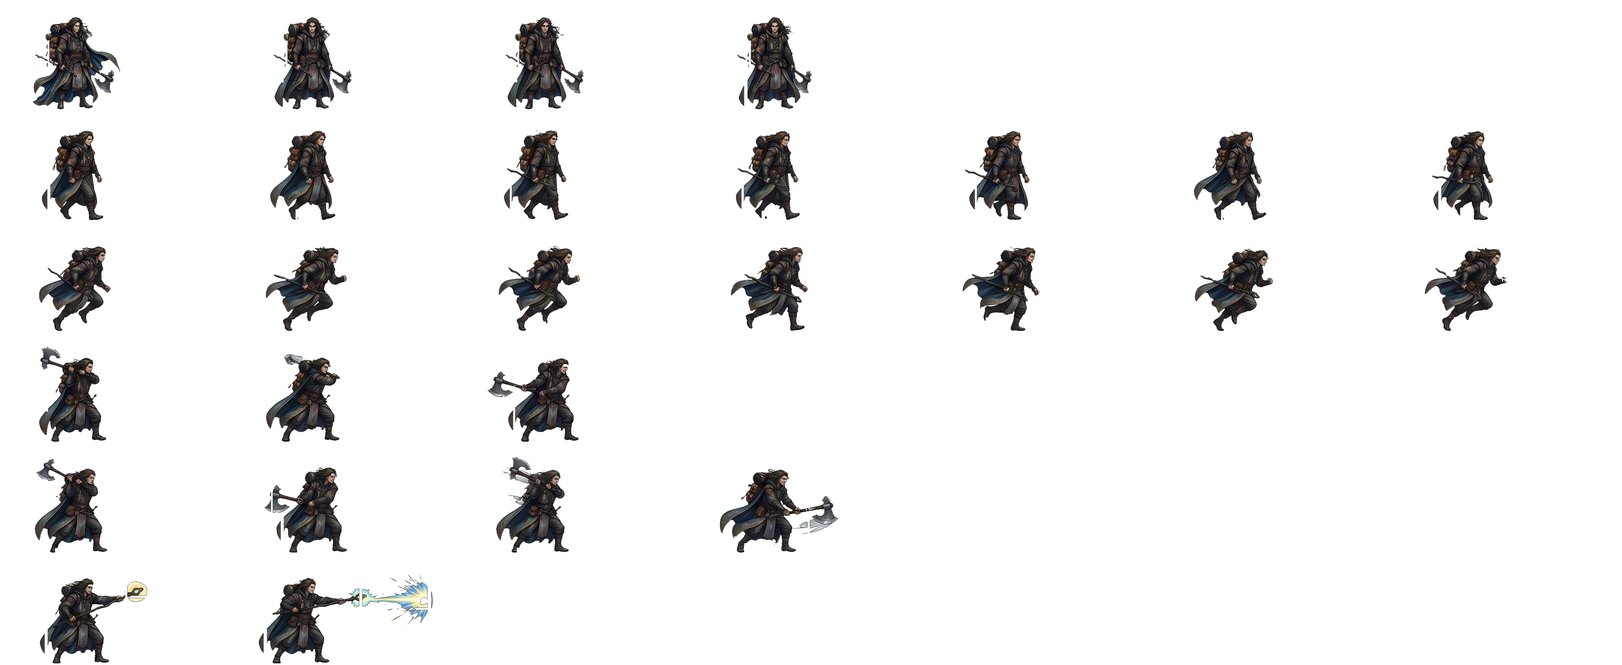
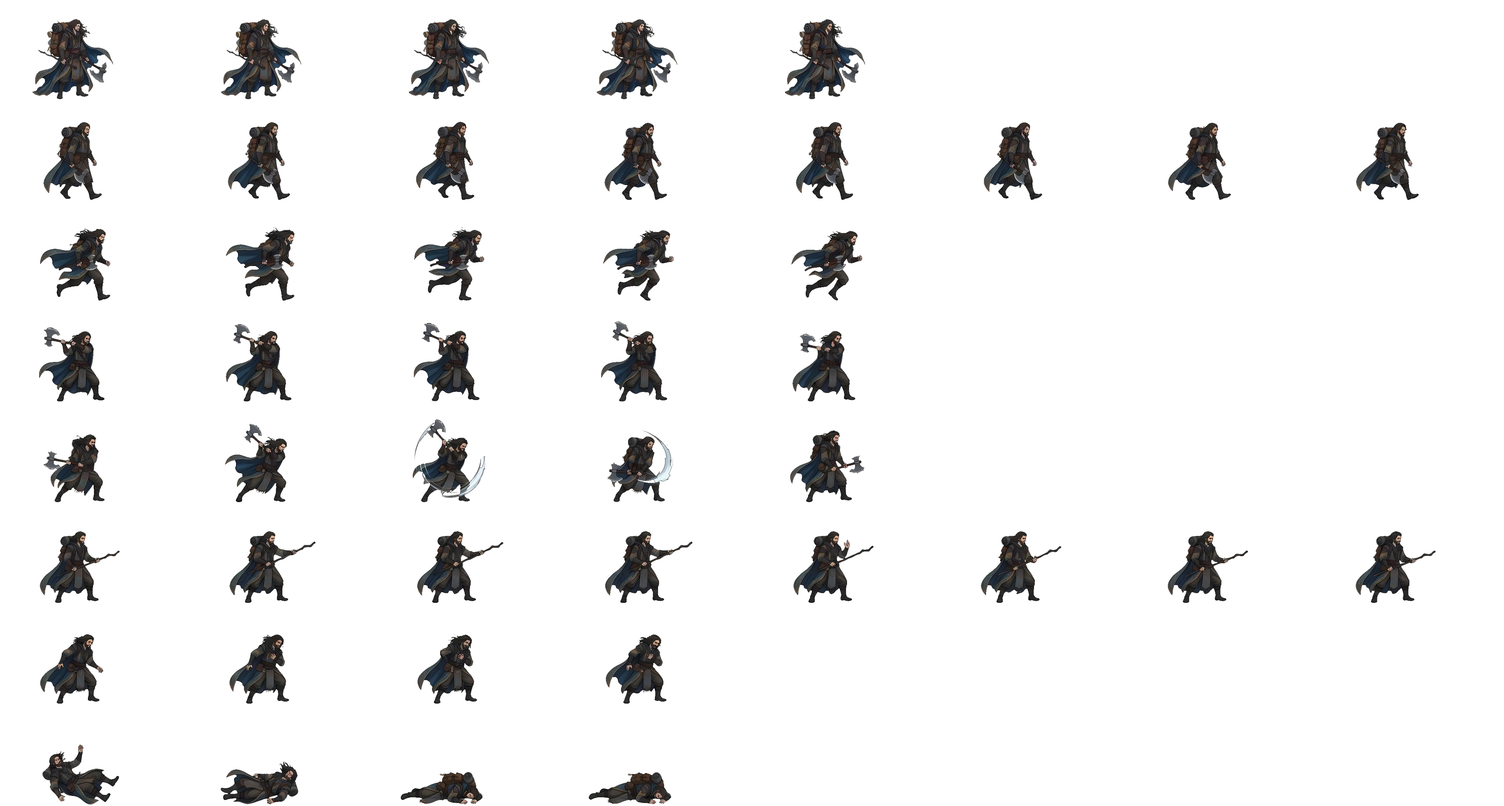
Jak: new sprite sheet (idle, 8-frame walk, run, wind-up, swing, staff cast, hurt, knocked out)
Claude-Session: https://claude.ai/code/session_016iBLHZqgtWrdG3jWmShjEG

diff --git a/index.html b/index.html
@@ -49,7 +49,7 @@ body{display:flex;justify-content:center}
 
 <script>
 const ATLAS_SRC="assets/lum_atlas_v5.webp?v=b5d321dc8e";
-const ASSET_SRC={"ground": "assets/ground.webp?v=c61ee31f5b", "rock1": "assets/rock1.webp?v=4e677f3831", "rock2": "assets/rock2.webp?v=7dd0569dcb", "rock3": "assets/rock3.webp?v=56b967ad67", "rock4": "assets/rock4.webp?v=0d1af80431", "cottage": "assets/cottage.webp?v=698443d54d", "cottage_win": "assets/cottage_win.webp?v=7aa924e07f", "cottage_runes": "assets/cottage_runes.webp?v=fedf57d4f3", "well2": "assets/well2.webp?v=af52a369ca", "signpost": "assets/signpost.webp?v=58d6cbc3c9", "runetree": "assets/runetree.webp?v=882fef9528", "runetree_runes": "assets/runetree_runes.webp?v=32432a9566", "forest_bg": "assets/forest_bg.webp?v=48e7441431", "wellroom": "assets/wellroom.webp?v=4c525760c2", "wellroom_runes": "assets/wellroom_runes.webp?v=f42530f4f2", "wellroom_nobucket": "assets/wellroom_nobucket.webp?v=f47f13a7c8", "bucket_hat": "assets/bucket_hat.webp?v=a26814e8f8", "bucket_worn": "assets/bucket_worn.webp?v=a493a15958", "jelly_idle": "assets/jelly_idle.webp?v=71fed74136", "jelly_lunge": "assets/jelly_lunge.webp?v=92b0dc4343", "studyroom": "assets/studyroom.webp?v=a45726d36c", "grave0": "assets/grave0.webp?v=ad382cac7a", "grave1": "assets/grave1.webp?v=cefcf7ebac", "grave2": "assets/grave2.webp?v=9878aa3e55", "grave3": "assets/grave3.webp?v=a7a223d89e", "grave4": "assets/grave4.webp?v=a1028b8b90", "grave5": "assets/grave5.webp?v=0e02f5ad47", "grave6": "assets/grave6.webp?v=d0d80e2012", "grave7": "assets/grave7.webp?v=63f26d00aa", "grave8": "assets/grave8.webp?v=23e439ffe1", "grave9": "assets/grave9.webp?v=e07c5d7e34", "grave10": "assets/grave10.webp?v=fc3c50105c", "grave11": "assets/grave11.webp?v=8c2b60ce50", "bedroom": "assets/bedroom.webp?v=2225ec5dde", "sleep_cos": "assets/sleep_cos.webp?v=1b3af569b0", "sleep_lum": "assets/sleep_lum.webp?v=cd742dd436", "shoproom": "assets/shoproom.webp?v=79fc4857bd", "pondroom": "assets/pondroom.webp?v=50b5134a4a", "pcol_l": "assets/pcol_l.webp?v=e9bb5ccd70", "pcol_r": "assets/pcol_r.webp?v=dbb98c3bbf", "shed": "assets/shed.webp?v=543a9519de", "shedroom": "assets/shedroom.webp?v=f4136aef1d", "mimic": "assets/mimic.webp?v=b4eccb2cc0", "skel": "assets/skel.webp?v=6bdb7d42b9", "fokalur": "assets/fokalur.webp?v=32e8fdde12", "gate": "assets/gate.webp?v=b13c3b515c", "hut": "assets/hut.webp?v=93968f3788", "icon_potion": "assets/icon_potion.webp?v=ead5b0d648", "icon_pouch_seal": "assets/icon_pouch_seal.webp?v=f5895d2c6b", "icon_pouch": "assets/icon_pouch.webp?v=1228805e30", "icon_pouch_rose": "assets/icon_pouch_rose.webp?v=9ce159b238", "icon_pouch_crystal": "assets/icon_pouch_crystal.webp?v=0f51c72ecd", "icon_stick": "assets/icon_stick.webp?v=7da6e80825", "icon_rod": "assets/icon_rod.webp?v=500c8ad5de", "icon_staff_crystal": "assets/icon_staff_crystal.webp?v=2fadb8e7cf", "icon_staff_unicorn": "assets/icon_staff_unicorn.webp?v=19aca18031", "icon_sword_wood": "assets/icon_sword_wood.webp?v=51208a1356", "icon_sword_iron": "assets/icon_sword_iron.webp?v=5d4e663c8b", "icon_blade_dark": "assets/icon_blade_dark.webp?v=f39a2c7691", "icon_sword_long": "assets/icon_sword_long.webp?v=e2ed18cc86", "icon_sword_rune": "assets/icon_sword_rune.webp?v=0950c74e57", "icon_boots_leather": "assets/icon_boots_leather.webp?v=735092ee0b", "icon_boots_rubber_green": "assets/icon_boots_rubber_green.webp?v=698906df6b", "icon_boots_chain": "assets/icon_boots_chain.webp?v=024ff688e1", "icon_boots_plate": "assets/icon_boots_plate.webp?v=74076691fc", "icon_boots_winged": "assets/icon_boots_winged.webp?v=8c4553d310", "icon_cloak_apprentice": "assets/icon_cloak_apprentice.webp?v=1d1a6ddb1f", "icon_cloak_undine": "assets/icon_cloak_undine.webp?v=940789d635", "icon_cloak_green": "assets/icon_cloak_green.webp?v=76adbc8f83", "icon_cloak_grey": "assets/icon_cloak_grey.webp?v=d59e43efdb", "icon_cape_stars": "assets/icon_cape_stars.webp?v=d6e7732a4b", "icon_cape_lion_red": "assets/icon_cape_lion_red.webp?v=71308a4082", "icon_cape_lion_white": "assets/icon_cape_lion_white.webp?v=898859a526", "icon_cape_wings": "assets/icon_cape_wings.webp?v=2f7ea8ce7c", "slugking": "assets/slugking.webp?v=2f01c887f5", "jelly_idle_moss": "assets/jelly_idle_moss.webp?v=86cd24ecd3", "jelly_lunge_moss": "assets/jelly_lunge_moss.webp?v=bb5e70117f", "rskel": "assets/rskel.webp?v=c21afe8d1f", "wisp": "assets/wisp.webp?v=5b64d7379a", "vane": "assets/vane.webp?v=ddc4dc4c1e", "reaper": "assets/reaper.webp?v=2d19da05f6", "vanehut": "assets/vanehut.webp?v=27acb20d56", "ing_duskberry": "assets/ing_duskberry.webp?v=227fa12fae", "ing_dewberry": "assets/ing_dewberry.webp?v=7acbb8f24a", "ing_emberberry": "assets/ing_emberberry.webp?v=182192d25f", "ing_leavesB5": "assets/ing_leavesB5.webp?v=670e67f484", "ing_slime": "assets/ing_slime.webp?v=2d52e374b9", "ing_bones": "assets/ing_bones.webp?v=d2f5252a5b", "ing_twig": "assets/ing_twig.webp?v=ce341bff86", "tool_lantern": "assets/tool_lantern.webp?v=b0badf9ba0", "tool_lantern_ornate": "assets/tool_lantern_ornate.webp?v=6d22a8b9d8", "tool_rune_compass": "assets/tool_rune_compass.webp?v=3d79732549", "emote_grab": "assets/emote_grab.webp?v=0210ee5f87", "icon4_boots_fur": "assets/icon4_boots_fur.webp?v=257380106a", "spider": "assets/spider.webp?v=2082b59414", "bat": "assets/bat.webp?v=8384f2ed44", "fox": "assets/fox.webp?v=d1d5a33797", "flora": "assets/flora.webp?v=b2984d2fc2", "bramble_arch": "assets/bramble_arch.webp?v=f4f04cdb52", "bramble_hedge": "assets/bramble_hedge.webp?v=d4eccc44e3", "oak_big": "assets/oak_big.webp?v=a31af37e20", "webtree": "assets/webtree.webp?v=9c025b735f", "bwood_big": "assets/bwood_big.webp?v=cfb9ccc351", "bwood_small_a": "assets/bwood_small_a.webp?v=33d4334dc6", "bwood_small_b": "assets/bwood_small_b.webp?v=85c53e90a1", "bwood2_big": "assets/bwood2_big.webp?v=fdec0206c8", "bwood2_small_a": "assets/bwood2_small_a.webp?v=423d3b4f74", "bwood2_small_b": "assets/bwood2_small_b.webp?v=fc8a2edaac", "floor_st": "assets/floor_st.webp?v=c9eb0963f5", "jak": "assets/jak.webp?v=daf5f1152d", "icon_axe_wood": "assets/icon_axe_wood.webp?v=c531e310b1", "icon_axe_double_iron": "assets/icon_axe_double_iron.webp?v=1b08693001", "icon_axe_pearl": "assets/icon_axe_pearl.webp?v=1dfe41cb0b", "icon_axe_rune_gold": "assets/icon_axe_rune_gold.webp?v=aac528fea8", "icon_axe_jeweled": "assets/icon_axe_jeweled.webp?v=ea9c4a26e0", "icon_axe_broken": "assets/icon_axe_broken.webp?v=e1893bb616", "icon_axe_rusty": "assets/icon_axe_rusty.webp?v=1378b7b200", "icon_axe_leaf": "assets/icon_axe_leaf.webp?v=a4488d45e3", "icon_axe_bearded": "assets/icon_axe_bearded.webp?v=9af8e4a3ca", "icon_axe_steel": "assets/icon_axe_steel.webp?v=471dd46f27", "icon_axe_frost": "assets/icon_axe_frost.webp?v=302d3e06ea", "fox_red": "assets/fox_red.webp?v=9e66ea9c96", "jelly_idle_red": "assets/jelly_idle_red.webp?v=43ea16fbfd", "jelly_lunge_red": "assets/jelly_lunge_red.webp?v=d978f8f86e", "spider_dark": "assets/spider_dark.webp?v=dd9cccd6da", "thorngate": "assets/thorngate.webp?v=42c0f07e5d", "rose_bud": "assets/rose_bud.webp?v=bcef1e8f75", "rose_open": "assets/rose_open.webp?v=a0242c359d", "rose_twin": "assets/rose_twin.webp?v=e2297a7a91", "thdec_stickweb": "assets/thdec_stickweb.webp?v=a0b5d29ef3", "thdec_mushweb": "assets/thdec_mushweb.webp?v=ef66bb87d1", "thdec_litterweb": "assets/thdec_litterweb.webp?v=55159b7bc4", "thdec_fernweb": "assets/thdec_fernweb.webp?v=835280ac84", "thdec_smallweb": "assets/thdec_smallweb.webp?v=ca6202bcd2", "thdec_log": "assets/thdec_log.webp?v=366093c3a6", "icon3_mortar_clay": "assets/icon3_mortar_clay.webp?v=79428386fe", "icon4_sun_bottle": "assets/icon4_sun_bottle.webp?v=814504de18", "icon3_frost_bowl": "assets/icon3_frost_bowl.webp?v=0e086c9798", "icon3_pastel_powders": "assets/icon3_pastel_powders.webp?v=f431b705e2", "icon2_cross_wood": "assets/icon2_cross_wood.webp?v=161f6ec751", "icon2_key_gold": "assets/icon2_key_gold.webp?v=8ff3771dd5", "hollow": "assets/hollow.webp?v=dfa726d993", "dun5": "assets/dun5.webp?v=85029c1dff", "dun4": "assets/dun4.webp?v=b46827d446", "dun3": "assets/dun3.webp?v=7a88b0e860", "dun2": "assets/dun2.webp?v=21d09cc1d9", "dun1": "assets/dun1.webp?v=06e6dc99cc", "acc_heart_ring": "assets/acc_heart_ring.webp?v=5bc343177a", "acc_braid_ring": "assets/acc_braid_ring.webp?v=ef878f119c", "acc_moon_necklace": "assets/acc_moon_necklace.webp?v=e57426d856", "acc_slime_ring": "assets/acc_slime_ring.webp?v=01154880ae", "acc_amethyst": "assets/acc_amethyst.webp?v=459ad65fc8", "acc_sunmoon_medal": "assets/acc_sunmoon_medal.webp?v=0ebb4c8567", "acc_lion_ring": "assets/acc_lion_ring.webp?v=d803438586", "acc_shell_necklace": "assets/acc_shell_necklace.webp?v=eb822dcaef", "acc_wing_brooch": "assets/acc_wing_brooch.webp?v=9e7d87c59b", "acc_moonstone_ring": "assets/acc_moonstone_ring.webp?v=ffda303e15", "sfg_chest": "assets/sfg_chest.webp?v=a472570ab1", "sfg_table": "assets/sfg_table.webp?v=013527fc10", "sfg_tableleg": "assets/sfg_tableleg.webp?v=1ad782e189", "sfg_side": "assets/sfg_side.webp?v=a4a3f2284f", "sfg_lectern": "assets/sfg_lectern.webp?v=c0df8fec54", "sfg_roots": "assets/sfg_roots.webp?v=c59040b279", "birch1": "assets/birch1.webp?v=b0ea24106f", "birch2": "assets/birch2.webp?v=2dd033eac7", "birch3": "assets/birch3.webp?v=e64553ecbd", "willow1": "assets/willow1.webp?v=98786f0c84", "cobble_strip": "assets/cobble_strip.webp?v=284855081b", "cobble_runes": "assets/cobble_runes.webp?v=07a4cad76e", "bridge0": "assets/bridge0.webp?v=c930b521f8", "bridge1": "assets/bridge1.webp?v=8e675faec7", "bridge2": "assets/bridge2.webp?v=65bc61c470", "bridge3": "assets/bridge3.webp?v=153e2f5c59", "bridge4": "assets/bridge4.webp?v=b6ff9fef90", "drained0": "assets/drained0.webp?v=dee278254d", "drained1": "assets/drained1.webp?v=c38f30e4a2", "drained2": "assets/drained2.webp?v=c2abd46393", "drained3": "assets/drained3.webp?v=d0408dce90", "drained4": "assets/drained4.webp?v=49fe89ce29", "drained5": "assets/drained5.webp?v=8b2a410ea1", "drained6": "assets/drained6.webp?v=b735f267b4", "drained7": "assets/drained7.webp?v=aefa2993f7", "drained8": "assets/drained8.webp?v=e853833327", "drained9": "assets/drained9.webp?v=9a5541fe81", "shrub0": "assets/shrub0.webp?v=f9f7df7aac", "shrub1": "assets/shrub1.webp?v=f4825b0d48", "shrub2": "assets/shrub2.webp?v=b0edbbd898", "shrub3": "assets/shrub3.webp?v=bc7a089a89", "shrub4": "assets/shrub4.webp?v=bb66d76d2e", "shrub5": "assets/shrub5.webp?v=ffbae35557", "shrub6": "assets/shrub6.webp?v=1c234a4c17", "shrub7": "assets/shrub7.webp?v=5b1a8119f9", "shrub8": "assets/shrub8.webp?v=a937edbbf3", "shrub9": "assets/shrub9.webp?v=dfb2f54698", "shrub10": "assets/shrub10.webp?v=5c2dd38d41", "shrub11": "assets/shrub11.webp?v=3faa1b4736", "bird0": "assets/bird0.webp?v=7d5d2404e5", "bird1": "assets/bird1.webp?v=eb12c73b19", "bird2": "assets/bird2.webp?v=ca02415237", "bird3": "assets/bird3.webp?v=42efa7eb02", "bird4": "assets/bird4.webp?v=7a9329e236", "bird5": "assets/bird5.webp?v=90bd3aa6a3", "bird6": "assets/bird6.webp?v=0a764f8ed6", "bird7": "assets/bird7.webp?v=04e3aa6d61", "bird8": "assets/bird8.webp?v=11cac9e48b", "bird9": "assets/bird9.webp?v=209732f271", "bird10": "assets/bird10.webp?v=518afeccc0", "bird11": "assets/bird11.webp?v=41c18c5083", "bird12": "assets/bird12.webp?v=9250bb7453", "topi_cube": "assets/topi_cube.webp?v=1fc6082fd5", "topi_ball": "assets/topi_ball.webp?v=78a3cfcc82", "topi_spiral": "assets/topi_spiral.webp?v=d6ac5cd38a", "topi_cone": "assets/topi_cone.webp?v=67e11f2900"};
+const ASSET_SRC={"ground": "assets/ground.webp?v=c61ee31f5b", "rock1": "assets/rock1.webp?v=4e677f3831", "rock2": "assets/rock2.webp?v=7dd0569dcb", "rock3": "assets/rock3.webp?v=56b967ad67", "rock4": "assets/rock4.webp?v=0d1af80431", "cottage": "assets/cottage.webp?v=698443d54d", "cottage_win": "assets/cottage_win.webp?v=7aa924e07f", "cottage_runes": "assets/cottage_runes.webp?v=fedf57d4f3", "well2": "assets/well2.webp?v=af52a369ca", "signpost": "assets/signpost.webp?v=58d6cbc3c9", "runetree": "assets/runetree.webp?v=882fef9528", "runetree_runes": "assets/runetree_runes.webp?v=32432a9566", "forest_bg": "assets/forest_bg.webp?v=48e7441431", "wellroom": "assets/wellroom.webp?v=4c525760c2", "wellroom_runes": "assets/wellroom_runes.webp?v=f42530f4f2", "wellroom_nobucket": "assets/wellroom_nobucket.webp?v=f47f13a7c8", "bucket_hat": "assets/bucket_hat.webp?v=a26814e8f8", "bucket_worn": "assets/bucket_worn.webp?v=a493a15958", "jelly_idle": "assets/jelly_idle.webp?v=71fed74136", "jelly_lunge": "assets/jelly_lunge.webp?v=92b0dc4343", "studyroom": "assets/studyroom.webp?v=a45726d36c", "grave0": "assets/grave0.webp?v=ad382cac7a", "grave1": "assets/grave1.webp?v=cefcf7ebac", "grave2": "assets/grave2.webp?v=9878aa3e55", "grave3": "assets/grave3.webp?v=a7a223d89e", "grave4": "assets/grave4.webp?v=a1028b8b90", "grave5": "assets/grave5.webp?v=0e02f5ad47", "grave6": "assets/grave6.webp?v=d0d80e2012", "grave7": "assets/grave7.webp?v=63f26d00aa", "grave8": "assets/grave8.webp?v=23e439ffe1", "grave9": "assets/grave9.webp?v=e07c5d7e34", "grave10": "assets/grave10.webp?v=fc3c50105c", "grave11": "assets/grave11.webp?v=8c2b60ce50", "bedroom": "assets/bedroom.webp?v=2225ec5dde", "sleep_cos": "assets/sleep_cos.webp?v=1b3af569b0", "sleep_lum": "assets/sleep_lum.webp?v=cd742dd436", "shoproom": "assets/shoproom.webp?v=79fc4857bd", "pondroom": "assets/pondroom.webp?v=50b5134a4a", "pcol_l": "assets/pcol_l.webp?v=e9bb5ccd70", "pcol_r": "assets/pcol_r.webp?v=dbb98c3bbf", "shed": "assets/shed.webp?v=543a9519de", "shedroom": "assets/shedroom.webp?v=f4136aef1d", "mimic": "assets/mimic.webp?v=b4eccb2cc0", "skel": "assets/skel.webp?v=6bdb7d42b9", "fokalur": "assets/fokalur.webp?v=32e8fdde12", "gate": "assets/gate.webp?v=b13c3b515c", "hut": "assets/hut.webp?v=93968f3788", "icon_potion": "assets/icon_potion.webp?v=ead5b0d648", "icon_pouch_seal": "assets/icon_pouch_seal.webp?v=f5895d2c6b", "icon_pouch": "assets/icon_pouch.webp?v=1228805e30", "icon_pouch_rose": "assets/icon_pouch_rose.webp?v=9ce159b238", "icon_pouch_crystal": "assets/icon_pouch_crystal.webp?v=0f51c72ecd", "icon_stick": "assets/icon_stick.webp?v=7da6e80825", "icon_rod": "assets/icon_rod.webp?v=500c8ad5de", "icon_staff_crystal": "assets/icon_staff_crystal.webp?v=2fadb8e7cf", "icon_staff_unicorn": "assets/icon_staff_unicorn.webp?v=19aca18031", "icon_sword_wood": "assets/icon_sword_wood.webp?v=51208a1356", "icon_sword_iron": "assets/icon_sword_iron.webp?v=5d4e663c8b", "icon_blade_dark": "assets/icon_blade_dark.webp?v=f39a2c7691", "icon_sword_long": "assets/icon_sword_long.webp?v=e2ed18cc86", "icon_sword_rune": "assets/icon_sword_rune.webp?v=0950c74e57", "icon_boots_leather": "assets/icon_boots_leather.webp?v=735092ee0b", "icon_boots_rubber_green": "assets/icon_boots_rubber_green.webp?v=698906df6b", "icon_boots_chain": "assets/icon_boots_chain.webp?v=024ff688e1", "icon_boots_plate": "assets/icon_boots_plate.webp?v=74076691fc", "icon_boots_winged": "assets/icon_boots_winged.webp?v=8c4553d310", "icon_cloak_apprentice": "assets/icon_cloak_apprentice.webp?v=1d1a6ddb1f", "icon_cloak_undine": "assets/icon_cloak_undine.webp?v=940789d635", "icon_cloak_green": "assets/icon_cloak_green.webp?v=76adbc8f83", "icon_cloak_grey": "assets/icon_cloak_grey.webp?v=d59e43efdb", "icon_cape_stars": "assets/icon_cape_stars.webp?v=d6e7732a4b", "icon_cape_lion_red": "assets/icon_cape_lion_red.webp?v=71308a4082", "icon_cape_lion_white": "assets/icon_cape_lion_white.webp?v=898859a526", "icon_cape_wings": "assets/icon_cape_wings.webp?v=2f7ea8ce7c", "slugking": "assets/slugking.webp?v=2f01c887f5", "jelly_idle_moss": "assets/jelly_idle_moss.webp?v=86cd24ecd3", "jelly_lunge_moss": "assets/jelly_lunge_moss.webp?v=bb5e70117f", "rskel": "assets/rskel.webp?v=c21afe8d1f", "wisp": "assets/wisp.webp?v=5b64d7379a", "vane": "assets/vane.webp?v=ddc4dc4c1e", "reaper": "assets/reaper.webp?v=2d19da05f6", "vanehut": "assets/vanehut.webp?v=27acb20d56", "ing_duskberry": "assets/ing_duskberry.webp?v=227fa12fae", "ing_dewberry": "assets/ing_dewberry.webp?v=7acbb8f24a", "ing_emberberry": "assets/ing_emberberry.webp?v=182192d25f", "ing_leavesB5": "assets/ing_leavesB5.webp?v=670e67f484", "ing_slime": "assets/ing_slime.webp?v=2d52e374b9", "ing_bones": "assets/ing_bones.webp?v=d2f5252a5b", "ing_twig": "assets/ing_twig.webp?v=ce341bff86", "tool_lantern": "assets/tool_lantern.webp?v=b0badf9ba0", "tool_lantern_ornate": "assets/tool_lantern_ornate.webp?v=6d22a8b9d8", "tool_rune_compass": "assets/tool_rune_compass.webp?v=3d79732549", "emote_grab": "assets/emote_grab.webp?v=0210ee5f87", "icon4_boots_fur": "assets/icon4_boots_fur.webp?v=257380106a", "spider": "assets/spider.webp?v=2082b59414", "bat": "assets/bat.webp?v=8384f2ed44", "fox": "assets/fox.webp?v=d1d5a33797", "flora": "assets/flora.webp?v=b2984d2fc2", "bramble_arch": "assets/bramble_arch.webp?v=f4f04cdb52", "bramble_hedge": "assets/bramble_hedge.webp?v=d4eccc44e3", "oak_big": "assets/oak_big.webp?v=a31af37e20", "webtree": "assets/webtree.webp?v=9c025b735f", "bwood_big": "assets/bwood_big.webp?v=cfb9ccc351", "bwood_small_a": "assets/bwood_small_a.webp?v=33d4334dc6", "bwood_small_b": "assets/bwood_small_b.webp?v=85c53e90a1", "bwood2_big": "assets/bwood2_big.webp?v=fdec0206c8", "bwood2_small_a": "assets/bwood2_small_a.webp?v=423d3b4f74", "bwood2_small_b": "assets/bwood2_small_b.webp?v=fc8a2edaac", "floor_st": "assets/floor_st.webp?v=c9eb0963f5", "jak": "assets/jak.webp?v=714b2272bd", "icon_axe_wood": "assets/icon_axe_wood.webp?v=c531e310b1", "icon_axe_double_iron": "assets/icon_axe_double_iron.webp?v=1b08693001", "icon_axe_pearl": "assets/icon_axe_pearl.webp?v=1dfe41cb0b", "icon_axe_rune_gold": "assets/icon_axe_rune_gold.webp?v=aac528fea8", "icon_axe_jeweled": "assets/icon_axe_jeweled.webp?v=ea9c4a26e0", "icon_axe_broken": "assets/icon_axe_broken.webp?v=e1893bb616", "icon_axe_rusty": "assets/icon_axe_rusty.webp?v=1378b7b200", "icon_axe_leaf": "assets/icon_axe_leaf.webp?v=a4488d45e3", "icon_axe_bearded": "assets/icon_axe_bearded.webp?v=9af8e4a3ca", "icon_axe_steel": "assets/icon_axe_steel.webp?v=471dd46f27", "icon_axe_frost": "assets/icon_axe_frost.webp?v=302d3e06ea", "fox_red": "assets/fox_red.webp?v=9e66ea9c96", "jelly_idle_red": "assets/jelly_idle_red.webp?v=43ea16fbfd", "jelly_lunge_red": "assets/jelly_lunge_red.webp?v=d978f8f86e", "spider_dark": "assets/spider_dark.webp?v=dd9cccd6da", "thorngate": "assets/thorngate.webp?v=42c0f07e5d", "rose_bud": "assets/rose_bud.webp?v=bcef1e8f75", "rose_open": "assets/rose_open.webp?v=a0242c359d", "rose_twin": "assets/rose_twin.webp?v=e2297a7a91", "thdec_stickweb": "assets/thdec_stickweb.webp?v=a0b5d29ef3", "thdec_mushweb": "assets/thdec_mushweb.webp?v=ef66bb87d1", "thdec_litterweb": "assets/thdec_litterweb.webp?v=55159b7bc4", "thdec_fernweb": "assets/thdec_fernweb.webp?v=835280ac84", "thdec_smallweb": "assets/thdec_smallweb.webp?v=ca6202bcd2", "thdec_log": "assets/thdec_log.webp?v=366093c3a6", "icon3_mortar_clay": "assets/icon3_mortar_clay.webp?v=79428386fe", "icon4_sun_bottle": "assets/icon4_sun_bottle.webp?v=814504de18", "icon3_frost_bowl": "assets/icon3_frost_bowl.webp?v=0e086c9798", "icon3_pastel_powders": "assets/icon3_pastel_powders.webp?v=f431b705e2", "icon2_cross_wood": "assets/icon2_cross_wood.webp?v=161f6ec751", "icon2_key_gold": "assets/icon2_key_gold.webp?v=8ff3771dd5", "hollow": "assets/hollow.webp?v=dfa726d993", "dun5": "assets/dun5.webp?v=85029c1dff", "dun4": "assets/dun4.webp?v=b46827d446", "dun3": "assets/dun3.webp?v=7a88b0e860", "dun2": "assets/dun2.webp?v=21d09cc1d9", "dun1": "assets/dun1.webp?v=06e6dc99cc", "acc_heart_ring": "assets/acc_heart_ring.webp?v=5bc343177a", "acc_braid_ring": "assets/acc_braid_ring.webp?v=ef878f119c", "acc_moon_necklace": "assets/acc_moon_necklace.webp?v=e57426d856", "acc_slime_ring": "assets/acc_slime_ring.webp?v=01154880ae", "acc_amethyst": "assets/acc_amethyst.webp?v=459ad65fc8", "acc_sunmoon_medal": "assets/acc_sunmoon_medal.webp?v=0ebb4c8567", "acc_lion_ring": "assets/acc_lion_ring.webp?v=d803438586", "acc_shell_necklace": "assets/acc_shell_necklace.webp?v=eb822dcaef", "acc_wing_brooch": "assets/acc_wing_brooch.webp?v=9e7d87c59b", "acc_moonstone_ring": "assets/acc_moonstone_ring.webp?v=ffda303e15", "sfg_chest": "assets/sfg_chest.webp?v=a472570ab1", "sfg_table": "assets/sfg_table.webp?v=013527fc10", "sfg_tableleg": "assets/sfg_tableleg.webp?v=1ad782e189", "sfg_side": "assets/sfg_side.webp?v=a4a3f2284f", "sfg_lectern": "assets/sfg_lectern.webp?v=c0df8fec54", "sfg_roots": "assets/sfg_roots.webp?v=c59040b279", "birch1": "assets/birch1.webp?v=b0ea24106f", "birch2": "assets/birch2.webp?v=2dd033eac7", "birch3": "assets/birch3.webp?v=e64553ecbd", "willow1": "assets/willow1.webp?v=98786f0c84", "cobble_strip": "assets/cobble_strip.webp?v=284855081b", "cobble_runes": "assets/cobble_runes.webp?v=07a4cad76e", "bridge0": "assets/bridge0.webp?v=c930b521f8", "bridge1": "assets/bridge1.webp?v=8e675faec7", "bridge2": "assets/bridge2.webp?v=65bc61c470", "bridge3": "assets/bridge3.webp?v=153e2f5c59", "bridge4": "assets/bridge4.webp?v=b6ff9fef90", "drained0": "assets/drained0.webp?v=dee278254d", "drained1": "assets/drained1.webp?v=c38f30e4a2", "drained2": "assets/drained2.webp?v=c2abd46393", "drained3": "assets/drained3.webp?v=d0408dce90", "drained4": "assets/drained4.webp?v=49fe89ce29", "drained5": "assets/drained5.webp?v=8b2a410ea1", "drained6": "assets/drained6.webp?v=b735f267b4", "drained7": "assets/drained7.webp?v=aefa2993f7", "drained8": "assets/drained8.webp?v=e853833327", "drained9": "assets/drained9.webp?v=9a5541fe81", "shrub0": "assets/shrub0.webp?v=f9f7df7aac", "shrub1": "assets/shrub1.webp?v=f4825b0d48", "shrub2": "assets/shrub2.webp?v=b0edbbd898", "shrub3": "assets/shrub3.webp?v=bc7a089a89", "shrub4": "assets/shrub4.webp?v=bb66d76d2e", "shrub5": "assets/shrub5.webp?v=ffbae35557", "shrub6": "assets/shrub6.webp?v=1c234a4c17", "shrub7": "assets/shrub7.webp?v=5b1a8119f9", "shrub8": "assets/shrub8.webp?v=a937edbbf3", "shrub9": "assets/shrub9.webp?v=dfb2f54698", "shrub10": "assets/shrub10.webp?v=5c2dd38d41", "shrub11": "assets/shrub11.webp?v=3faa1b4736", "bird0": "assets/bird0.webp?v=7d5d2404e5", "bird1": "assets/bird1.webp?v=eb12c73b19", "bird2": "assets/bird2.webp?v=ca02415237", "bird3": "assets/bird3.webp?v=42efa7eb02", "bird4": "assets/bird4.webp?v=7a9329e236", "bird5": "assets/bird5.webp?v=90bd3aa6a3", "bird6": "assets/bird6.webp?v=0a764f8ed6", "bird7": "assets/bird7.webp?v=04e3aa6d61", "bird8": "assets/bird8.webp?v=11cac9e48b", "bird9": "assets/bird9.webp?v=209732f271", "bird10": "assets/bird10.webp?v=518afeccc0", "bird11": "assets/bird11.webp?v=41c18c5083", "bird12": "assets/bird12.webp?v=9250bb7453", "topi_cube": "assets/topi_cube.webp?v=1fc6082fd5", "topi_ball": "assets/topi_ball.webp?v=78a3cfcc82", "topi_spiral": "assets/topi_spiral.webp?v=d6ac5cd38a", "topi_cone": "assets/topi_cone.webp?v=67e11f2900"};
 const COSMIC_SRC="assets/cosmic_atlas.webp?v=f87006b14b";
 const SLUG_SRC="assets/slug_atlas.webp?v=0aa482f919";
 (()=>{
@@ -1744,9 +1744,9 @@ function renderBattle(){const B=BATTLE,S=bS();ctx.setTransform(DPR,0,0,DPR,0,0);
   drawPartyHUD();drawBattleMenu();drawPowderMenu();drawPowderPuff();drawBattleBanner();
   drawSoundBtn();drawWipe();drawSceneFade();}
 function drawBattleJak(h){const S=bS(),B=BATTLE,x=h.x+h.ox,y=h.y+h.oy,me=B.heroes[B.cur]===h,ph=B.phase,t=B.t,H_=206*S;let an='idle',fi=0,flip=false;
-  if(h.ko){an='idle';fi=0;}else if(me&&ph==='bonkRun'){an='run';fi=3+Math.floor(t*12)%4;}else if(me&&(ph==='bonkBack'||ph==='run'||ph==='fled')){an='run';fi=3+Math.floor(t*12)%4;flip=h.face<0||ph==='bonkBack';}
-  else if(me&&ph==='bonkWind'){an='chop';fi=t<B.windD*.5?0:1;}else if(me&&ph==='bonkHit'){if(t<.1){an='chop';fi=2;}else{an='swing';fi=3;}}else if(me&&ph==='jbolt'){an='cast';fi=t<.5?0:1;}
-  ctx.save();ctx.translate(x,y+3);if(h.ko){const u=Math.min(1,B.t/.5);ctx.rotate(-u*1.25);}if(h.hurt>0)ctx.translate(Math.sin(h.hurt*60)*4,0);if(an==='idle'&&!h.ko){const b=Math.sin(T*2.1);ctx.scale(1-.004*b,1+.008*b);}
+  if(h.ko){an='ko';fi=Math.min(3,Math.floor((h.koT||0)/.14));}else if(h.hurt>0){an='hurt';fi=Math.min(3,Math.floor((.5-h.hurt)/.1));}else if(me&&ph==='bonkRun'){an='run';fi=Math.floor(t*12)%5;}else if(me&&(ph==='bonkBack'||ph==='run'||ph==='fled')){an='run';fi=Math.floor(t*12)%5;flip=h.face<0||ph==='bonkBack';}
+  else if(me&&ph==='bonkWind'){an='chop';fi=Math.min(4,Math.floor(t/B.windD*5));}else if(me&&ph==='bonkHit'){an='swing';fi=Math.min(4,Math.floor(t/.08));}else if(me&&ph==='jbolt'){an='cast';fi=Math.min(7,Math.floor(t/.1));}
+  if(h.ko)h.koT=(h.koT||0)+1/60;else h.koT=0;ctx.save();ctx.translate(x,y+3);if(an==='idle'&&!h.ko){const b=Math.sin(T*2.1);ctx.scale(1-.004*b,1+.008*b);}
   c1Frame(ctx,'jak',an,fi,JAKDX*H_*(flip?-1:1),0,H_,flip,1,h.hurt>.3?1:0);ctx.restore();
   if(h.stuck&&!h.ko){}}
 function drawBattleHero(h){const S=bS(),sp=.62*S,x=h.x+h.ox,y=h.y+h.oy;
@@ -2799,7 +2799,7 @@ function syncMaxHp(who=HERO){const H_=HEROES[who];let b=0;for(const k in PARTY[w
    CHAPTER 1: Lum wakes to find Cosmic gone
    ===================================================================== */
 const VANE_HAND=[[0.8416666666666667, 0.1989795918367347], [0.8472222222222222, 0.18622448979591838], [0.8416666666666667, 0.1556122448979592]];
-const C1ATL={"jak": {"cw": 690, "ch": 330, "rows": {"idle": [0, 4], "walk": [1, 7], "run": [2, 7], "chop": [3, 3], "swing": [4, 4], "cast": [5, 2]}}, "flora": {"cw": 236, "ch": 242, "rows": {"idle": [0, 6], "bloom": [1, 8], "attack": [2, 7], "shot": [3, 1], "hurt": [4, 4]}}, "rskel": {"cw": 330, "ch": 384, "rows": {"idle": [0, 4], "move": [1, 4], "hover": [2, 3], "cast": [3, 4], "hurt": [4, 4], "die": [5, 4]}}, "wisp": {"cw": 444, "ch": 394, "rows": {"idle": [0, 4], "roll": [1, 8], "spin": [2, 4], "thorn": [3, 4], "hurt": [4, 3], "taunt": [5, 4], "die": [6, 4]}}, "vane": {"cw": 360, "ch": 392, "rows": {"idle": [0, 4], "walk": [1, 8], "hold": [2, 3], "lantern": [2, 3]}}, "reaper": {"cw": 396, "ch": 328, "rows": {"idle": [0, 6], "walk": [1, 8], "cast": [2, 7], "strike": [3, 5], "hurt": [4, 3]}}, "bat": {"cw": 608, "ch": 400, "rows": {"fly": [0, 3], "glide": [1, 3], "swoop": [2, 3], "recover": [3, 2]}}, "fox": {"cw": 315, "ch": 285, "rows": {"run": [0, 12], "jump": [1, 9], "attack": [2, 8], "jattack": [3, 1], "hurt": [4, 1]}}, "spider": {"cw": 360, "ch": 220, "rows": {"idle": [0, 4], "crawl": [1, 5], "attack": [2, 3], "jump": [3, 4]}}};
+const C1ATL={"jak": {"cw": 560, "ch": 300, "rows": {"idle": [0, 5], "walk": [1, 8], "run": [2, 5], "chop": [3, 5], "swing": [4, 5], "cast": [5, 8], "hurt": [6, 4], "ko": [7, 4]}}, "flora": {"cw": 236, "ch": 242, "rows": {"idle": [0, 6], "bloom": [1, 8], "attack": [2, 7], "shot": [3, 1], "hurt": [4, 4]}}, "rskel": {"cw": 330, "ch": 384, "rows": {"idle": [0, 4], "move": [1, 4], "hover": [2, 3], "cast": [3, 4], "hurt": [4, 4], "die": [5, 4]}}, "wisp": {"cw": 444, "ch": 394, "rows": {"idle": [0, 4], "roll": [1, 8], "spin": [2, 4], "thorn": [3, 4], "hurt": [4, 3], "taunt": [5, 4], "die": [6, 4]}}, "vane": {"cw": 360, "ch": 392, "rows": {"idle": [0, 4], "walk": [1, 8], "hold": [2, 3], "lantern": [2, 3]}}, "reaper": {"cw": 396, "ch": 328, "rows": {"idle": [0, 6], "walk": [1, 8], "cast": [2, 7], "strike": [3, 5], "hurt": [4, 3]}}, "bat": {"cw": 608, "ch": 400, "rows": {"fly": [0, 3], "glide": [1, 3], "swoop": [2, 3], "recover": [3, 2]}}, "fox": {"cw": 315, "ch": 285, "rows": {"run": [0, 12], "jump": [1, 9], "attack": [2, 8], "jattack": [3, 1], "hurt": [4, 1]}}, "spider": {"cw": 360, "ch": 220, "rows": {"idle": [0, 4], "crawl": [1, 5], "attack": [2, 3], "jump": [3, 4]}}};
 const C1={hedgeSeen:0,tracksSeen:0,cemSeen:0,reaper:0,vane:0,endSeen:0,woodsSeen:0};
 const WFOES=[];let REAPER=null,VANE=null;
 C1ATL.fox_red=C1ATL.fox;C1ATL.spider_dark=C1ATL.spider;
@@ -3048,7 +3048,7 @@ function drawThornGate(){THGATE.t+=1/60;const im=IMG.thorngate;ctx.setTransform(
     ctx.save();ctx.globalCompositeOperation='lighter';drawGlow(ctx,lx+dw*.08,ly-dh*.62,dw*.5,'210,190,150',.07);ctx.restore();}
   if(THGATE.t<4.5){const a=Math.min(1,THGATE.t*1.2,(4.5-THGATE.t)*1.2);ctx.save();ctx.globalAlpha=a;ctx.textAlign='center';ctx.fillStyle='rgba(20,5,10,.45)';ctx.fillRect(0,H*.3-40,W,80);ctx.fillStyle='#f0dede';ctx.font='700 26px "Alegreya SC", Georgia, serif';ctx.fillText('Stranglethorn Forest',W/2,H*.3+10);ctx.restore();}}
 /* ---------- Jak, the lost traveller, and the creatures of Stranglethorn ---------- */
-const JAKDX=(.5-.33)*690/330;const JAKREST={x:1*TCW+TCW*.56,y:6*TCH+TCH*.7};
+const JAKDX=(.5-.4)*560/300;const JAKREST={x:1*TCW+TCW*.56,y:6*TCH+TCH*.7};
 let JAKF=null;const JAKCRUMB=[];
 const jakInParty=()=>PARTY_ORDER.includes('jak');
 function resetJakFollow(){JAKF={x:lum.x-60*lum.face,y:lum.y+4,face:lum.face,moving:0,ph:0};JAKCRUMB.length=0;}
@@ -3061,9 +3061,9 @@ function updateJakFollow(dt){if(!jakInParty())return;if(!JAKF)resetJakFollow();c
   if(d>1){JAKF.x+=dx/d*sp;JAKF.y+=dy/d*sp;const want=dx<0?-1:1;if(Math.abs(dx)>d*.35&&want!==JAKF.face){JAKF.ft=(JAKF.ft||0)+dt;if(JAKF.ft>.18){JAKF.face=want;JAKF.ft=0;}}else JAKF.ft=0;}
   JAKF.mv=(JAKF.mv||0)+((sp>.4?1:0)-(JAKF.mv||0))*Math.min(1,dt*10);JAKF.moving=JAKF.mv>.5?1:0;JAKF.ph+=sp;}
 function drawJakOW(){if(!JAKF||CAPTURE.on)return;const H_=192,flip=JAKF.face<0;ctx.fillStyle='rgba(10,10,20,.25)';ctx.beginPath();ctx.ellipse(JAKF.x,JAKF.y+2,34,8,0,0,TAU);ctx.fill();
-  c1Frame(ctx,'jak',JAKF.moving?'walk':'idle',JAKF.moving?3+Math.floor(JAKF.ph/22)%4:0,JAKF.x+JAKDX*H_*(flip?-1:1),JAKF.y+3,H_,flip,1,0);}
+  c1Frame(ctx,'jak',JAKF.moving?'walk':'idle',JAKF.moving?Math.floor(JAKF.ph/16)%8:0,JAKF.x+JAKDX*H_*(flip?-1:1),JAKF.y+3,H_,flip,1,0);}
 function drawJakResting(){if(C1.jak)return;const x=JAKREST.x,y=JAKREST.y,H_=192,b=Math.sin(T*1.4);ctx.fillStyle='rgba(10,10,20,.3)';ctx.beginPath();ctx.ellipse(x,y+2,36,8,0,0,TAU);ctx.fill();
-  ctx.save();ctx.translate(x,y);ctx.rotate(-.08);ctx.scale(1,.97+.008*b);ctx.translate(-x,-y);ctx.filter='brightness(.62) saturate(.7)';c1Frame(ctx,'jak','idle',0,x-JAKDX*H_,y+3,H_,true,1,0);ctx.filter='none';ctx.restore();}
+  ctx.save();ctx.translate(x,y);ctx.scale(1,.985+.008*b);ctx.translate(-x,-y);ctx.filter='brightness(.62) saturate(.7)';c1Frame(ctx,'jak','hurt',3,x-JAKDX*H_,y+3,H_,true,1,0);ctx.filter='none';ctx.restore();}
 function jakPos(){if(JAKF&&(SCENE==='thorn'||SCENE==='woods')&&jakInParty())return JAKF;if(SCENE==='thorn'&&!C1.jak)return JAKREST;return {x:lum.x-50,y:lum.y};}
 function jakJoin(){if(!jakInParty()){PARTY_ORDER.length=1;PARTY_ORDER.push('jak');}C1.jak=1;HEROES.jak.hp=5;resetJakFollow();JAKF.x=JAKREST.x;JAKF.y=JAKREST.y;JAKF.face=-1;
   GOAL.tag='JAK JOINED THE PARTY';GOAL.text='Follow the red roses through Stranglethorn';HINT.goalT=0;sfxNice&&sfxNice();if(typeof SAVEC!=='undefined')SAVEC.t=99;}
